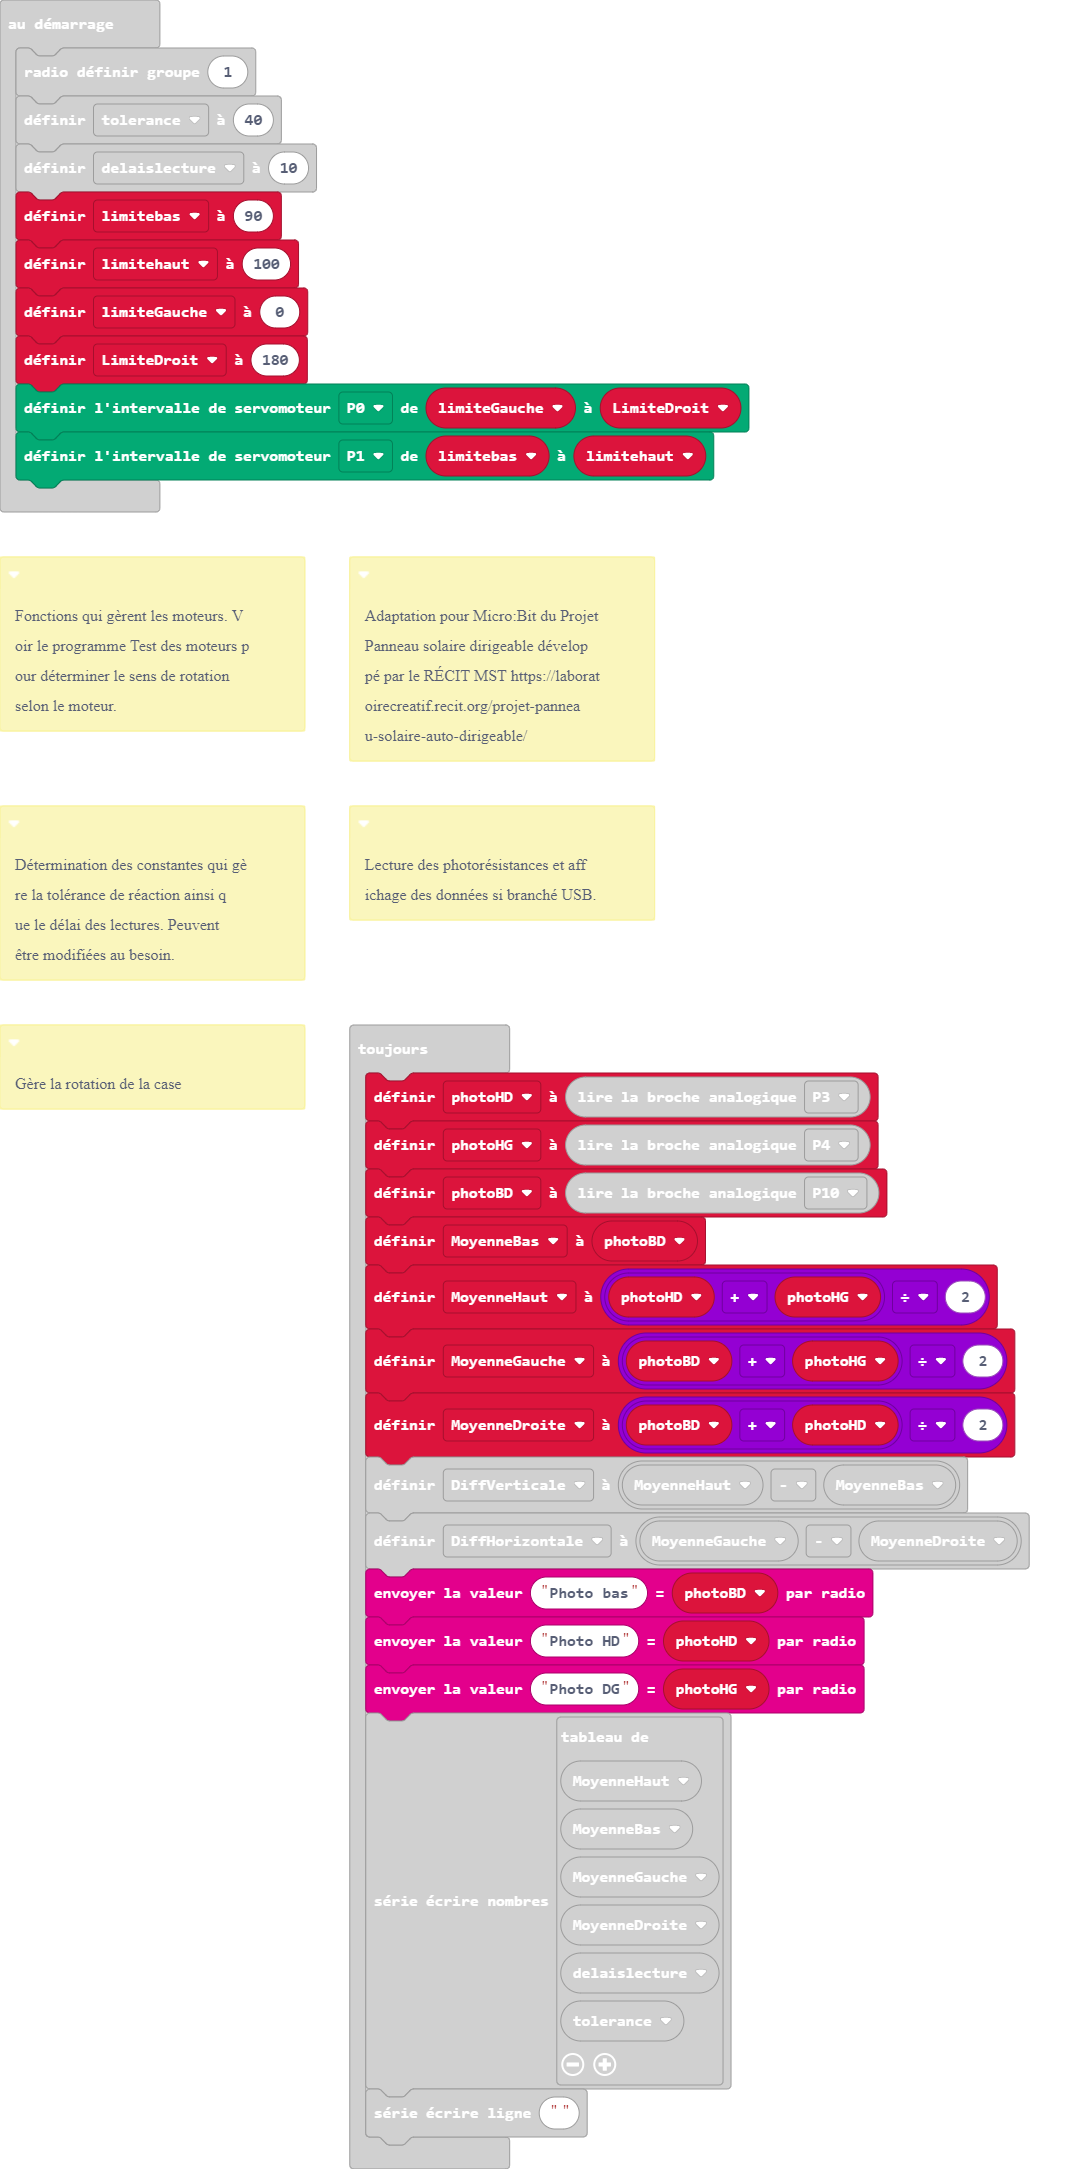
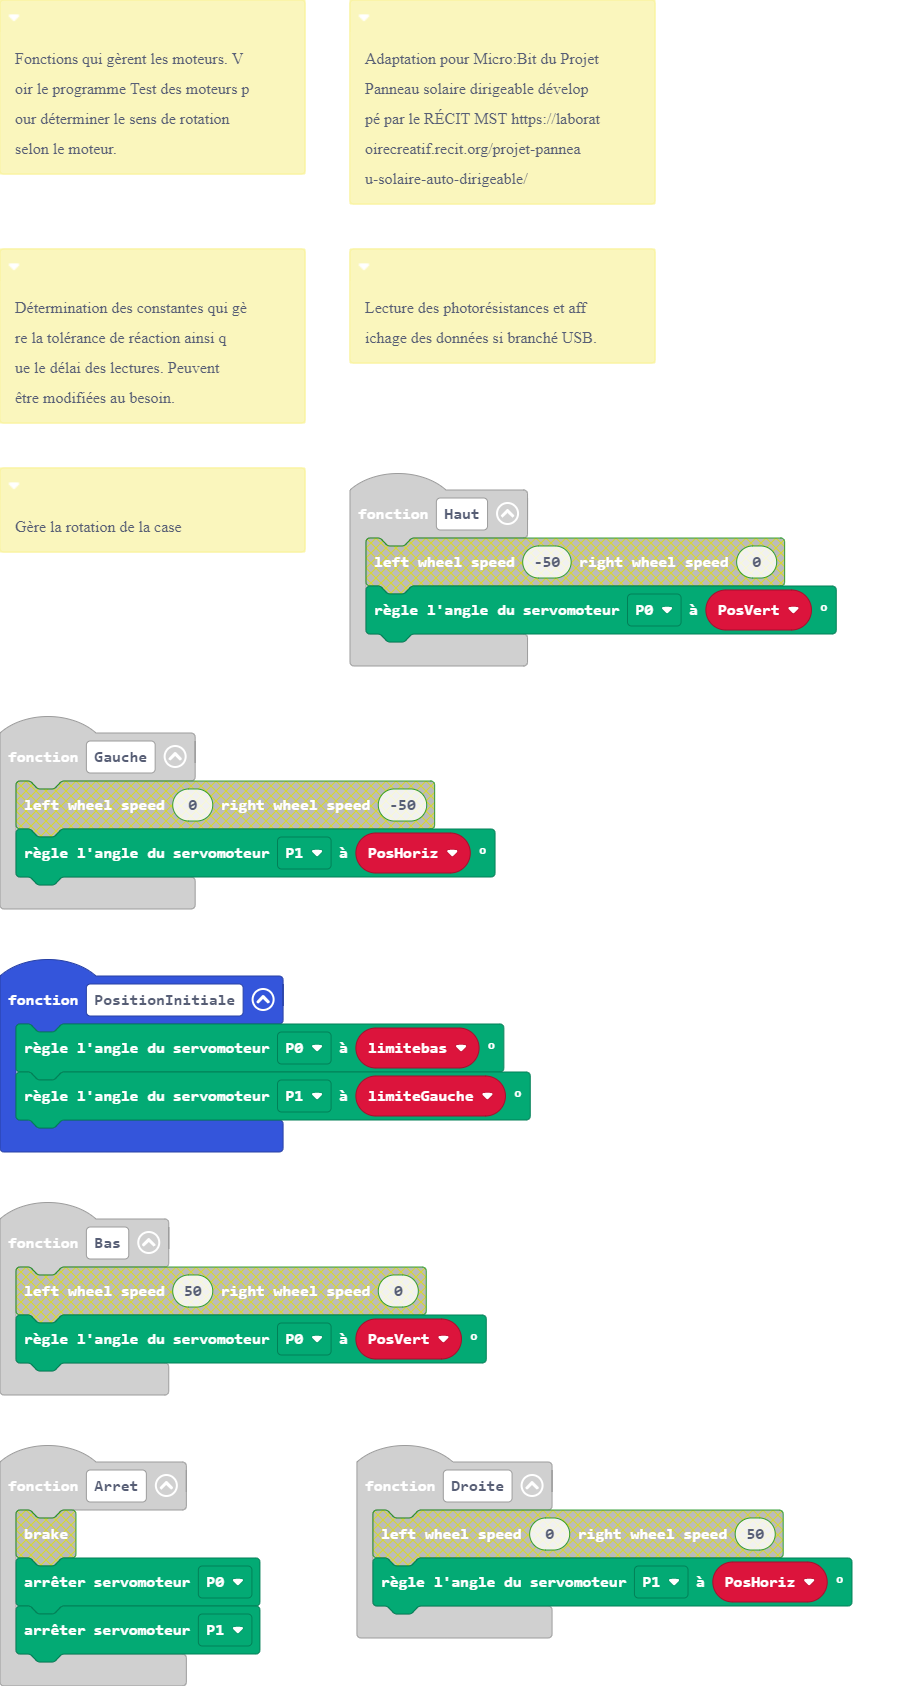
Mettre à jour main.blocks, main.ts

diff --git a/main.ts b/main.ts
@@ -10,22 +10,27 @@
  * https://laboratoirecreatif.recit.org/projet-panneau-solaire-auto-dirigeable/
  */
 function Gauche () {
-    motorbit.freestyle(0, -50)
+    servos.P1.setAngle(PosHoriz)
 }
 /**
  * Détermination des constantes qui gère la tolérance de réaction ainsi que le délai des lectures.  Peuvent être modifiées au besoin.
  */
 function Arret () {
-    motorbit.brake()
+    servos.P0.stop()
+    servos.P1.stop()
 }
 function Haut () {
-    motorbit.freestyle(-50, 0)
+    servos.P0.setAngle(PosVert)
+}
+function PositionInitiale () {
+    servos.P0.setAngle(limitebas)
+    servos.P1.setAngle(limiteGauche)
 }
 function Droite () {
-    motorbit.freestyle(0, 50)
+    servos.P1.setAngle(PosHoriz)
 }
 function Bas () {
-    motorbit.freestyle(50, 0)
+    servos.P0.setAngle(PosVert)
 }
 let DiffHorizontale = 0
 let DiffVerticale = 0
@@ -36,12 +41,16 @@ let MoyenneBas = 0
 let photoBD = 0
 let photoHG = 0
 let photoHD = 0
+let PosVert = 0
+let PosHoriz = 0
+let limiteGauche = 0
+let limitebas = 0
 radio.setGroup(1)
 let tolerance = 40
 let delaislecture = 10
-let limitebas = 90
+limitebas = 90
 let limitehaut = 100
-let limiteGauche = 0
+limiteGauche = 0
 let LimiteDroit = 180
 servos.P0.setRange(limiteGauche, LimiteDroit)
 servos.P1.setRange(limitebas, limitehaut)
